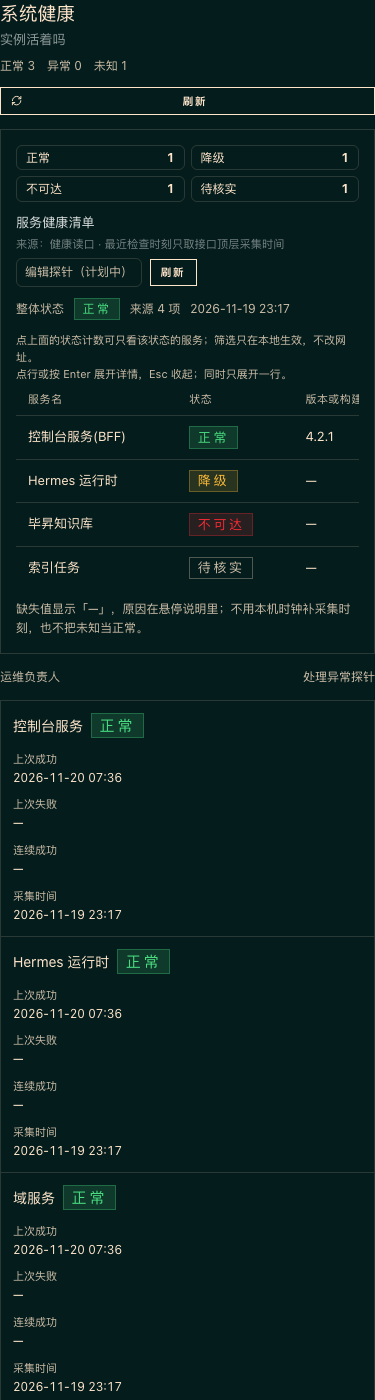
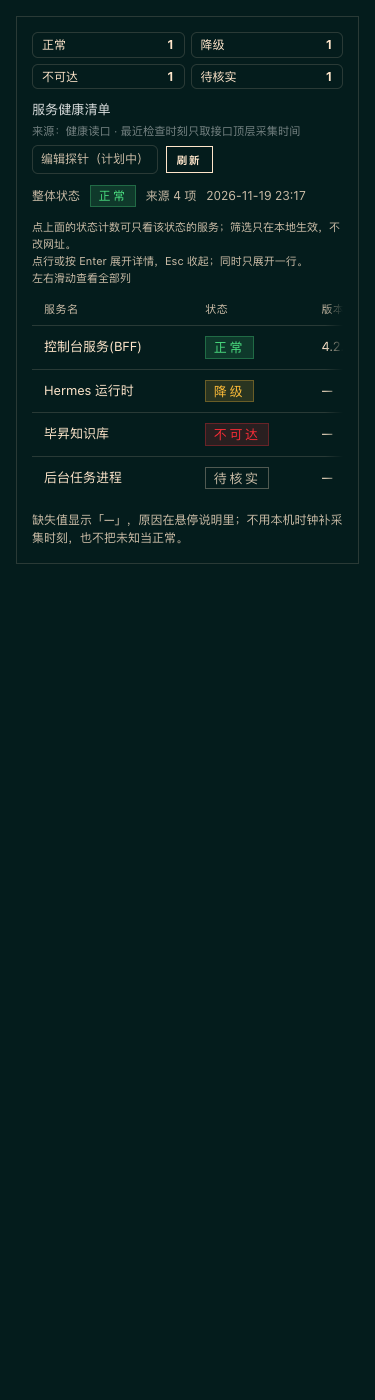
fix(console): system health mobile table affordance (sys5)

diff --git a/web/src/modules/health/SystemHealthSurface.tsx b/web/src/modules/health/SystemHealthSurface.tsx
@@ -323,6 +323,8 @@ export function SystemHealthSurface({ preview = null, onRetry }: { preview?: Pre
                 当前筛选下没有服务；计数来自同一次健康响应，这里不补服务行。
               </p>
             ) : (
+            <>
+            <p className="sys3-scrollhint" data-testid="sys3-scrollhint">左右滑动查看全部列</p>
             <div className="sys3-scroll">
               <table className="sys3-table" data-testid="sys3-table">
                 <thead>
@@ -366,6 +368,7 @@ export function SystemHealthSurface({ preview = null, onRetry }: { preview?: Pre
                 </tbody>
               </table>
             </div>
+            </>
             )}
             <p className="sys3-foot">缺失值显示「—」，原因在悬停说明里；不用本机时钟补采集时刻，也不把未知当正常。</p>
           </>

diff --git a/web/src/modules/health/SystemHealthSurface.test.tsx b/web/src/modules/health/SystemHealthSurface.test.tsx
@@ -66,6 +66,7 @@ describe("SystemHealthSurface", () => {
     expect(container.querySelector("[data-testid='sys5-count-degraded']")?.textContent).toContain("1");
     expect(container.querySelector("[data-testid='sys5-count-unreachable']")?.textContent).toContain("1");
     expect(container.querySelector("[data-testid='sys5-count-unknown']")?.textContent).toContain("0");
+    expect(container.querySelector("[data-testid='sys3-scrollhint']")?.textContent).toContain("左右滑动查看全部列");
     expect(text()).toContain("正常");
     expect(text()).toContain("降级");
     expect(text()).toContain("不可达");

diff --git a/web/src/modules/health/health.css b/web/src/modules/health/health.css
@@ -228,6 +228,13 @@
   overflow-x: auto;
 }
 
+.sys3-scrollhint {
+  display: none;
+  margin: 0 0 6px;
+  color: var(--color-muted-foreground);
+  font-size: 11px;
+}
+
 .sys3-table {
   width: 100%;
   min-width: 760px;
@@ -341,6 +348,12 @@
 @media (max-width: 720px) {
   .sys3-table {
     min-width: 680px;
+  }
+  .sys3-scrollhint {
+    display: block;
+  }
+  .sys3-scroll {
+    mask-image: linear-gradient(to right, #000 0, #000 calc(100% - 18px), transparent 100%);
   }
 }
 

diff --git a/docs/_artifacts/gov/DONE.md b/docs/_artifacts/gov/DONE.md
@@ -1800,6 +1800,7 @@ built /private/tmp/health-r38/index.html
 - 验证：`npx vitest run src/modules/health` → **2 files / 17 tests passed**（新增 1 条：同响应计数+本地筛选+零额外请求+清空）。全量 `npx vitest run` → **134 files / 1469 passed**，另有 2 个基线 employee-detail unhandled（非本域）。`tsc -b . --noEmit` → 6 行全为基线 employee-detail/employees，本域 0。`node scripts/build/web.mjs --source . --out /tmp/sys5-build --icons .` → exit 1，仅被同一基线类型错误挡住（employee-detail `api` 未定义、employees TS18047），无本域错误；未重建 9122。
 - DOM（临时 harness，已删；Vite 5460 / Chrome 9260）：1440/1280/375 `vw=bodySW=bodyCW`，`sys3-page` 1440/1280/375，行 4；计数 `正常1/降级1/不可达1/待核实1`；点「正常」后仅 1 行 `控制台服务(BFF)`、`aria-pressed=true`、body 宽不变；375 仅表格卡内滚动（680/343），页面不横溢。截图 `docs/_artifacts/gov/shots/sys5-{1440,1280,375}.png`。
 - 边界：只改 `web/src/modules/health/**` 与 DONE/截图；未改 App/shell/routes/registry/package·lock/web scripts/ops；未并 main、未重建 9122；sys3/sys4/ver5/cap4-7/skl4/tl3 未破；无独立观察者（截图复核未回，未阻塞）。
+- 观察者复核修正（sys5，2026-11-20）：1440/1280 PASS，375 FAIL——sys3 表格第 3 列在卡片内边缘被截断，第 4/5 列完全在屏外且**没有任何横向滚动提示**。修法：`SystemHealthSurface` 表格滚动区前加 `sys3-scrollhint`「左右滑动查看全部列」（≤720px 显示），并为 `.sys3-scroll` 加右缘 18px 渐隐 mask（仅 ≤720px），保留 `overflow-x:auto`。复测 375：`hintDisplay=block`、mask 生效、`scrollSW=680 / scrollCW=311`、`bodySW=bodyCW=375`，页面不横溢；截图 `sys5-375.png` 已重拍。健康单测 21/21（新增 hint 断言）。非阻塞项（计数口径两源并存、全宽带无内边距、两处对比度 ~3.3）本笔未改，如实记录。
 
 ## R52 /system 本页数据来源矩阵（2026-11-20）
 
